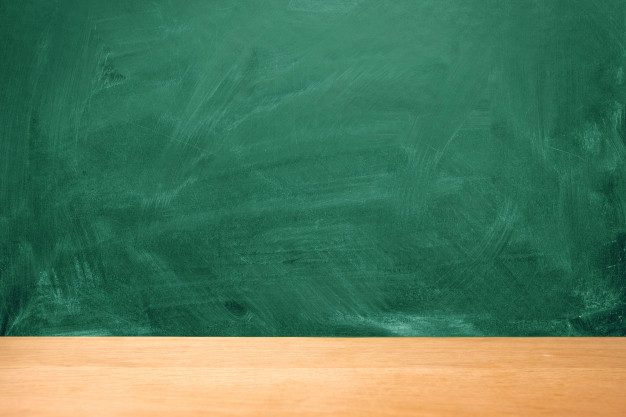
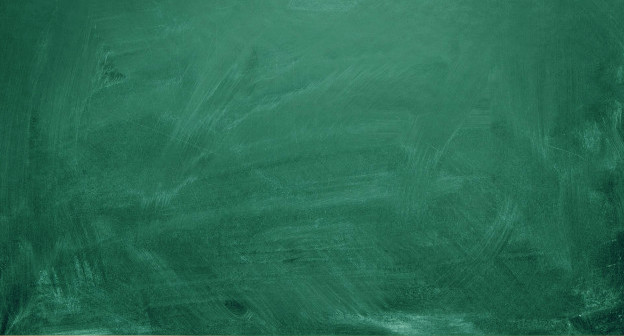
visuals

diff --git a/server/public/styles.css b/server/public/styles.css
@@ -1,9 +1,12 @@
 .container {
   margin: 30px;
   padding-left: 90px;
+  background-image: url('./images/green-chalkboard-background-with-chalk-stains-copy-space_94863-805.jpg');
+  background-size: contain;
 }
 header {
   margin-bottom: 40px;
+  color: white;
 }
 .btn {
   box-shadow: 2px 2px black;
@@ -17,4 +20,5 @@ h1, th {
 td {
   font-family: 'Nobile';
   font-weight: 700;
+  color: whitesmoke;
 }
